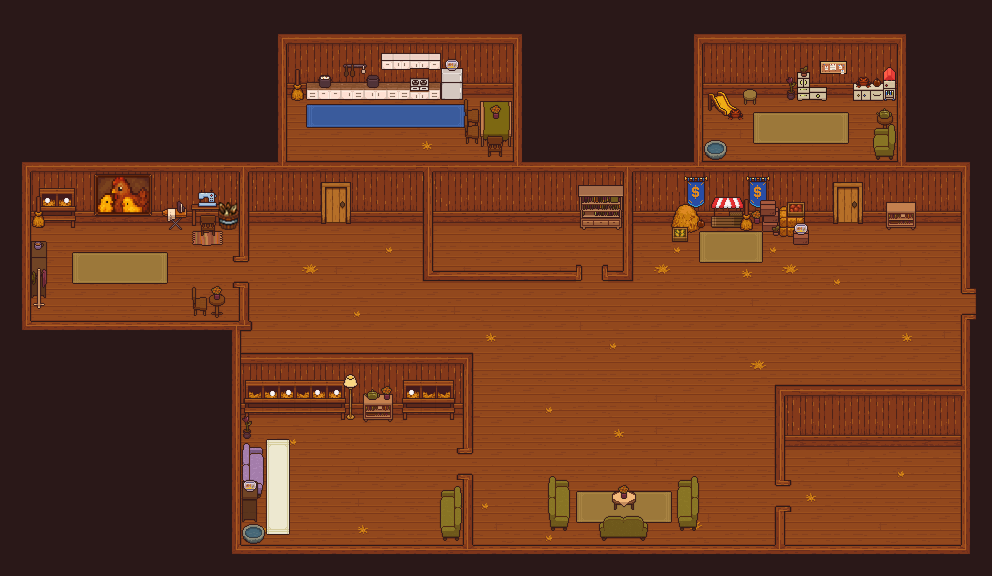
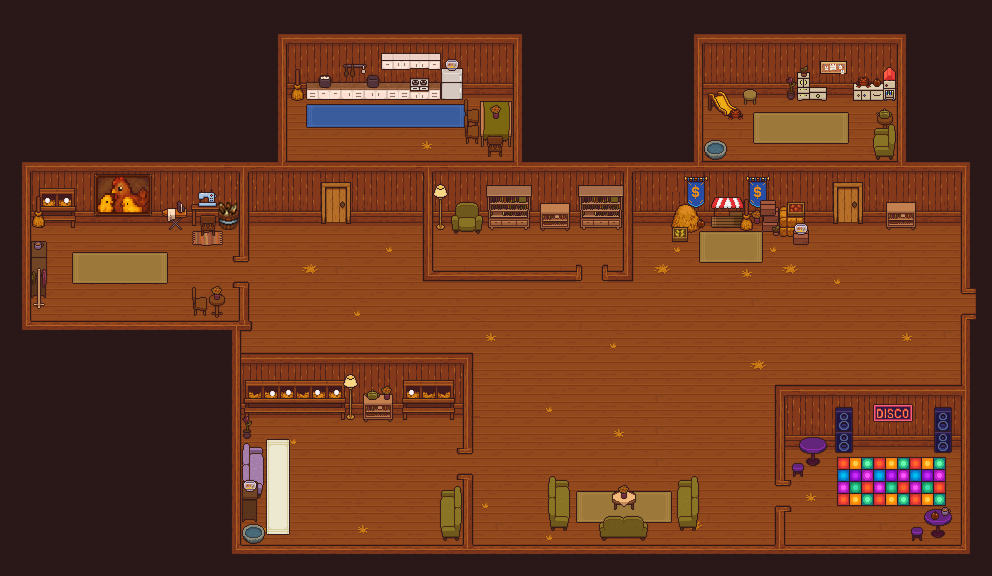
Atualizando o mapa

Changed region(s): [[0.7812, 0.6875, 0.9688, 0.9375], [0.4375, 0.3125, 0.5938, 0.4062]]

diff --git a/js/OverWorldMap.js b/js/OverWorldMap.js
@@ -930,7 +930,7 @@ window.OverworldMaps = {
             [utils.asGridCoord(9,30)] : true,
             [utils.asGridCoord(10,30)] : true,
 
-            [utils.asGridCoord(13,29)] : true,
+            //[utils.asGridCoord(13,29)] : true, Tirando a coordenada do sofá da direita para a Bernadette poder ficar em cima
             [utils.asGridCoord(13,30)] : true,
             [utils.asGridCoord(13,31)] : true,
             [utils.asGridCoord(14,29)] : true,
